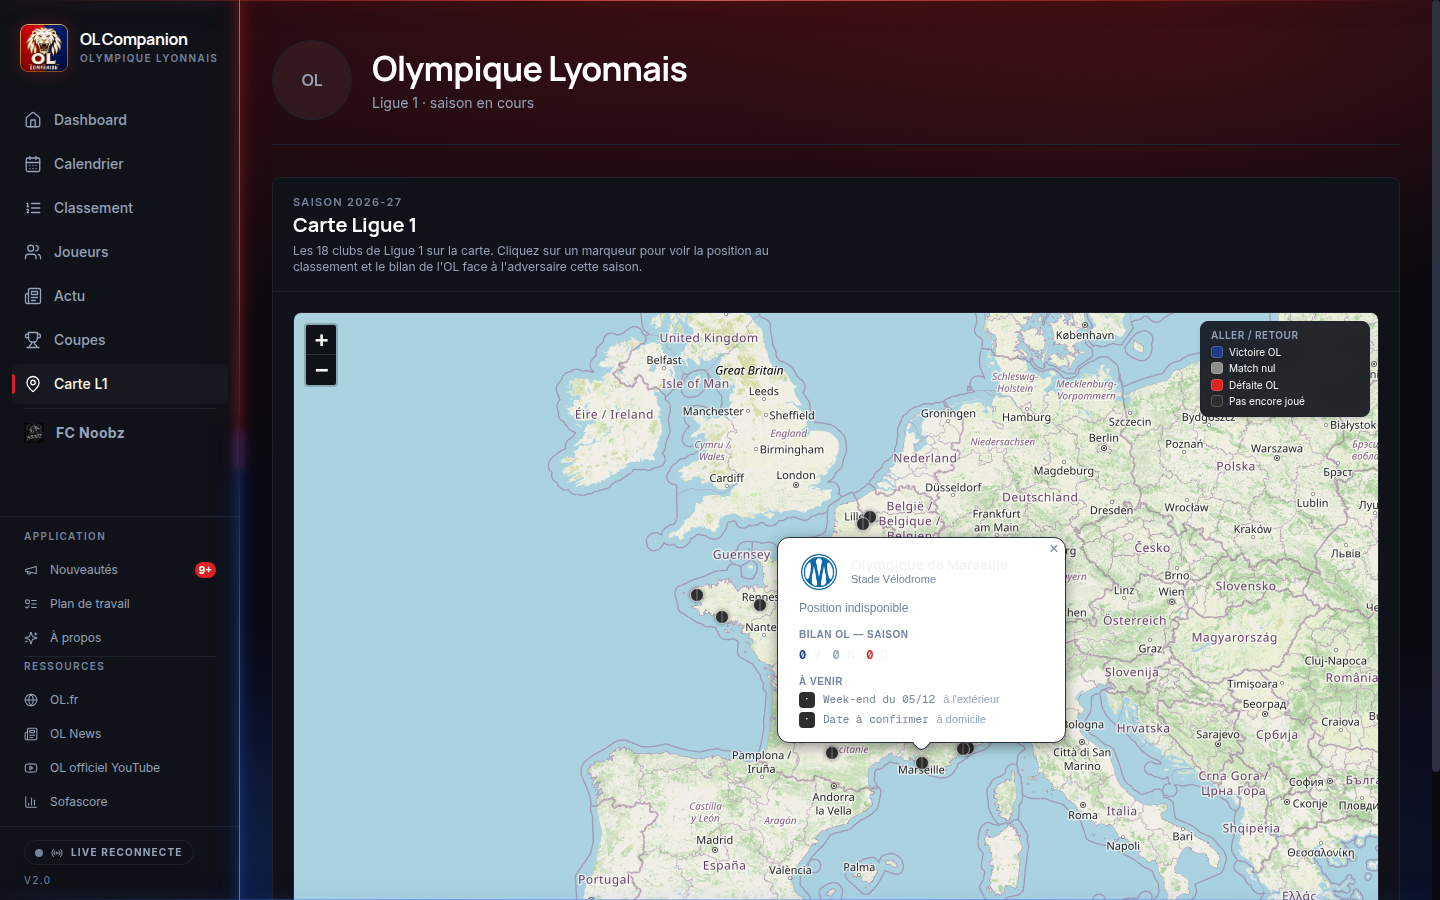
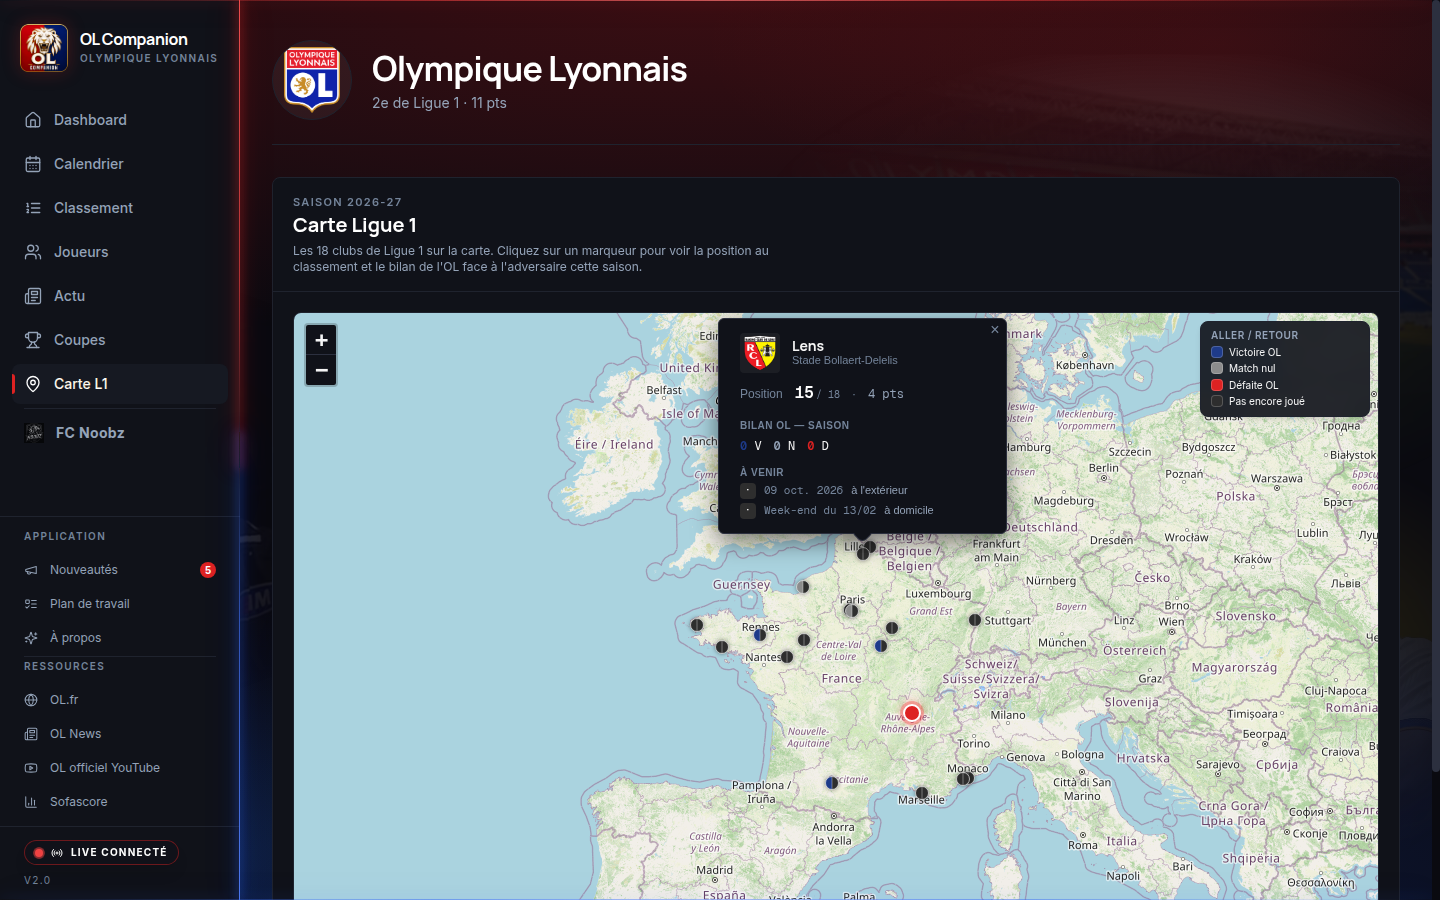
fix(L70): capture Nouveautés de la bulle « À venir » refaite après le correctif du fond sombre

diff --git a/docs/nouveautes/2026-10-09-carte-ligue-1-un-match-a-l-horaire-non-fixe-ne-montre-plus-u.md b/docs/nouveautes/2026-10-09-carte-ligue-1-un-match-a-l-horaire-non-fixe-ne-montre-plus-u.md
@@ -3,6 +3,6 @@ title: "Carte Ligue 1 : un match à l'horaire non fixé ne montre plus une date 
 date: 2026-10-09
 created: 2026-10-09T19:17+02:00
 lots: [L70]
-captures: [{ file: captures/L70-carte-a-venir.png, alt: "Bulle d'un club sur la carte : « Week-end du 05/12 » et « Date à confirmer » au lieu de dates fermes" }]
+captures: [{ file: captures/L70-carte-a-venir.png, alt: "Bulle sombre de Lens sur la carte : une date ferme pour le match à horaire fixé, « Week-end du 13/02 » pour celui dont l'horaire n'est pas fixé" }]
 ---
 Sur la carte de la Ligue 1, la bulle d'un club liste les matchs « À venir » de l'OL contre lui. Quand l'horaire d'un match n'est pas encore fixé, la bulle n'affiche plus une date exacte qui n'en était pas une : elle indique « Week-end du 05/12 » (si le match tombe du vendredi au dimanche) ou « Date à confirmer ». Dès que l'horaire est fixé, la date exacte revient. La même règle s'applique au match de Coupe de France à venir, quand il y en a un. C'est la règle déjà en vigueur sur le calendrier et le tableau de bord.
